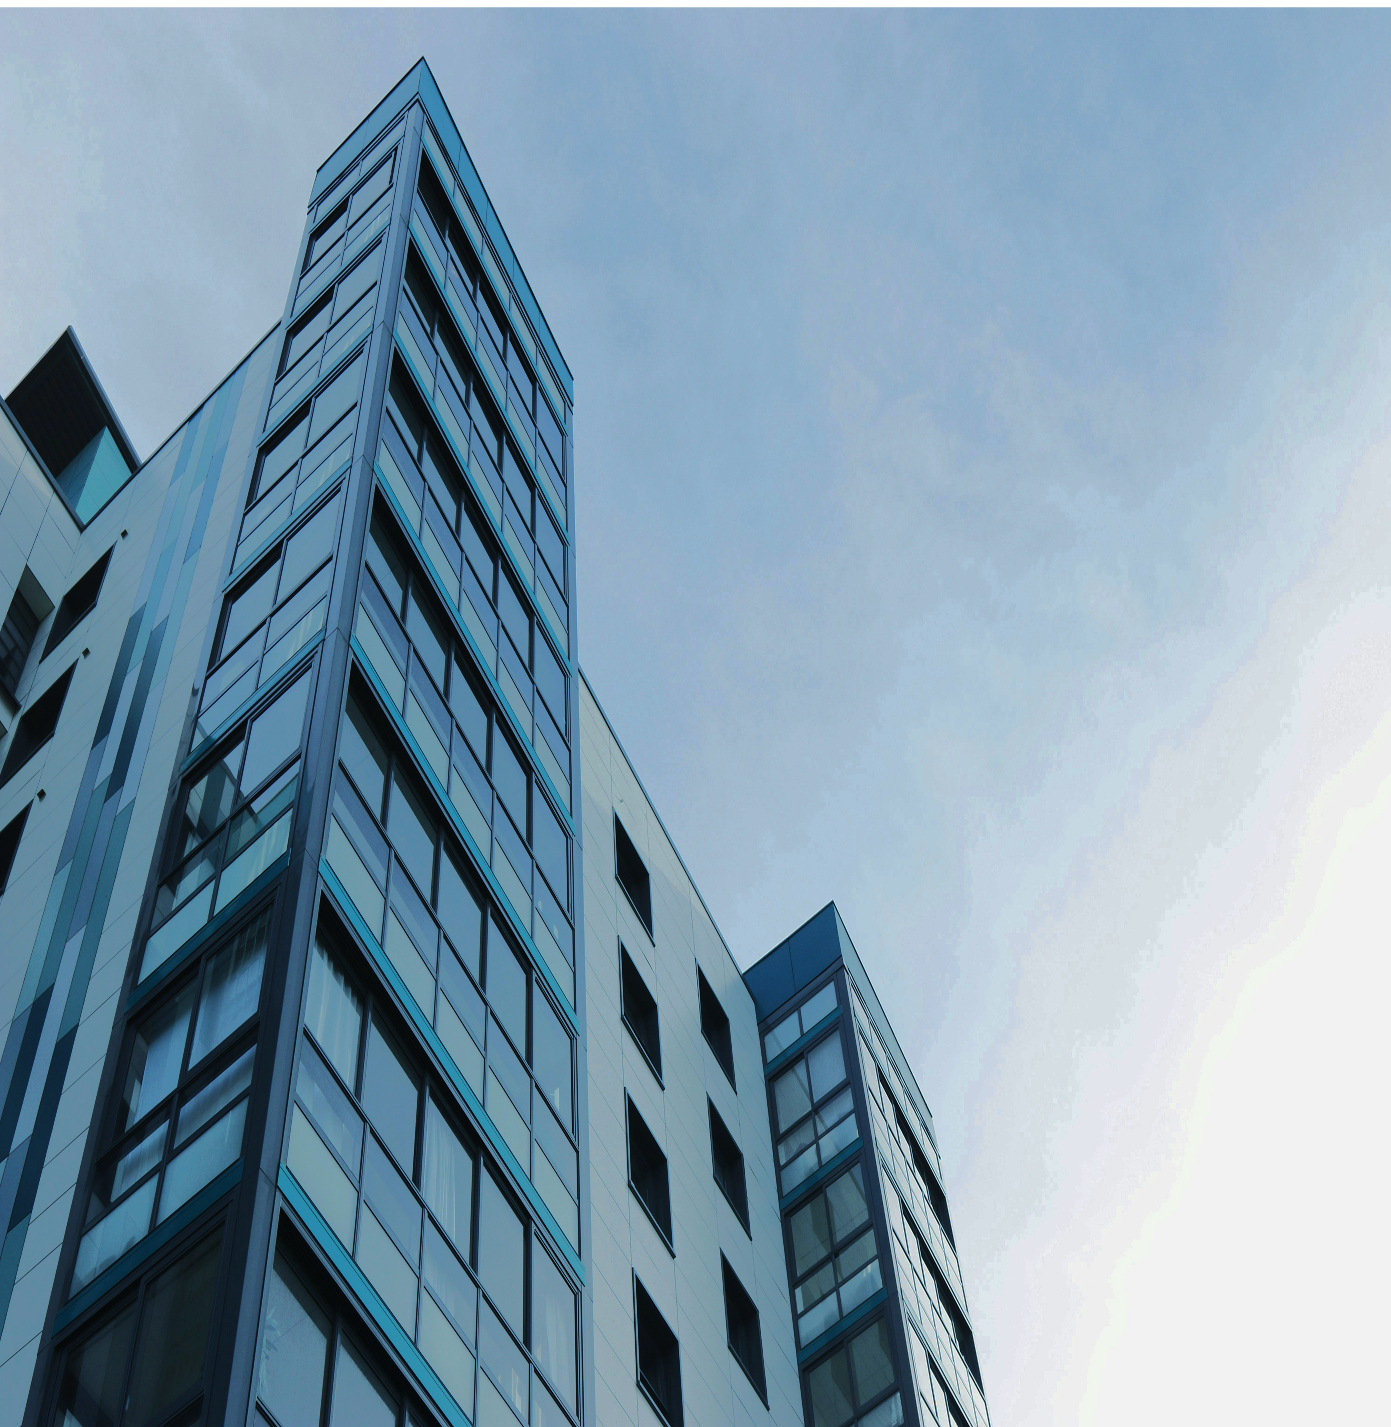
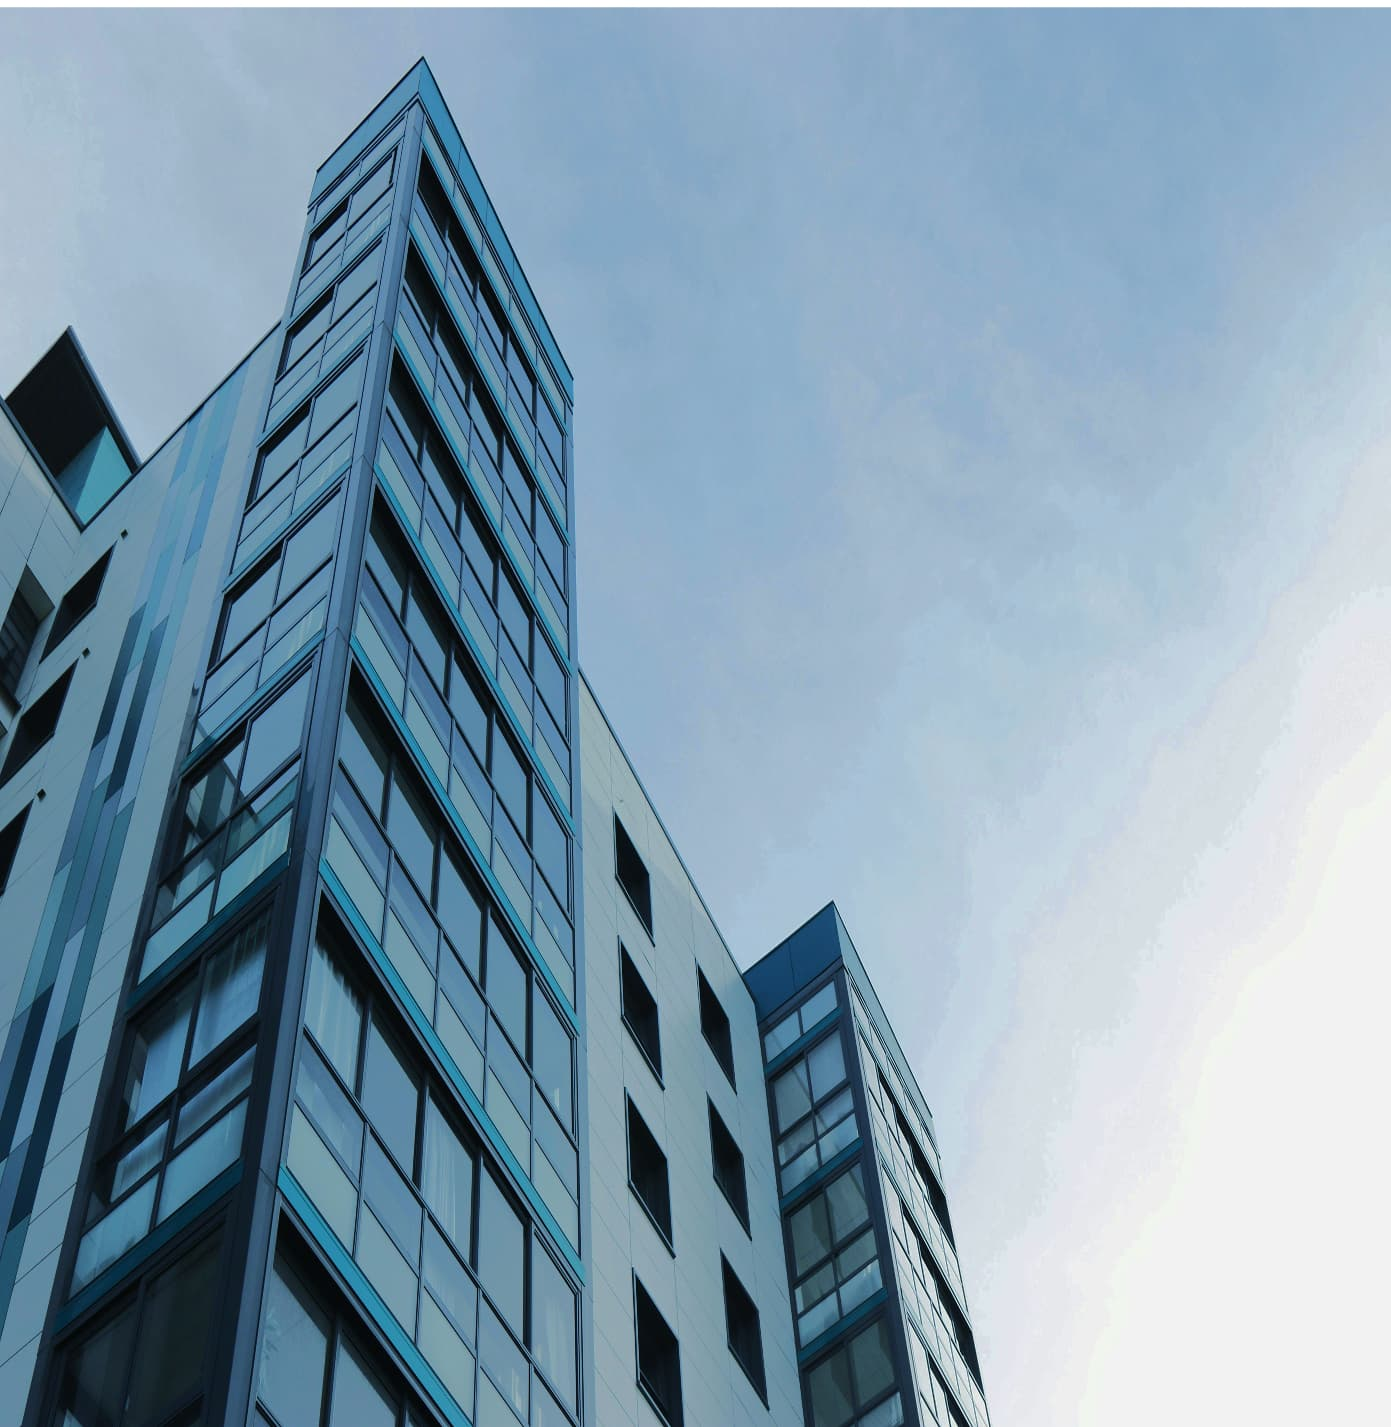
update at PPID

diff --git a/src/pages/profil/ProdukHukum.tsx b/src/pages/profil/ProdukHukum.tsx
@@ -187,7 +187,7 @@ const ProdukHukum = () => {
                         </div>
                         <div className="flex flex-col sm:flex-row gap-2">
                           {/* View Document */}
-                          <Button
+                          {/* <Button
                             variant="outline"
                             size="sm"
                             onClick={() => {
@@ -197,23 +197,24 @@ const ProdukHukum = () => {
                           >
                             <FileText className="w-4 h-4 mr-2" />
                             Lihat Detail
-                          </Button>
+                          </Button> */}
 
                           {/* Download Document */}
                           <Button
                             size="sm"
                             onClick={() => {
                               const fileUrl = `https://dashboard.btikpsultra.my.id/storage/${item.dokumens.dokumen}`;
-                              const link = document.createElement("a");
-                              link.href = fileUrl;
-                              link.download = item.judul || "dokumen.pdf";
-                              document.body.appendChild(link);
-                              link.click();
-                              document.body.removeChild(link);
+                              window.open(fileUrl, "_blank");
+                              // const link = document.createElement("a");
+                              // link.href = fileUrl;
+                              // link.download = item.judul || "dokumen.pdf";
+                              // document.body.appendChild(link);
+                              // link.click();
+                              // document.body.removeChild(link);
                             }}
                           >
-                            <Download className="w-4 h-4 mr-2" />
-                            Download
+                            <FileText className="w-4 h-4 mr-2" />
+                            Lihat Detail
                           </Button>
                         </div>
                       </div>

diff --git a/src/pages/inovasi/Inovasi.tsx b/src/pages/inovasi/Inovasi.tsx
@@ -123,28 +123,6 @@ const Inovasi = () => {
         </div>
       </section>
 
-      {/* Stats Section */}
-      {/* <section className="py-16 bg-muted/30">
-        <div className="max-w-7xl mx-auto px-4 sm:px-6 lg:px-8">
-          <div className="grid grid-cols-2 md:grid-cols-4 gap-8">
-            {stats?.map((stat, index) => (
-              <div key={index} className="text-center">
-                <div className="flex justify-center mb-4">
-                  <div className="p-3 bg-government-blue/10 rounded-full">
-                    <stat.icon className="w-8 h-8 text-government-blue" />
-                  </div>
-                </div>
-                <div className="text-3xl font-bold text-government-blue mb-2">
-                  {stat.value}
-                </div>
-                <div className="text-sm text-muted-foreground">
-                  {stat.label}
-                </div>
-              </div>
-            ))}
-          </div>
-        </div>
-      </section> */}
 
       {/* Main Content */}
       {isLoading ? (
@@ -249,7 +227,7 @@ const Inovasi = () => {
                       </Card>
                     ))
                   ) : (
-                    <p className="text-center capitalize font-bold">
+                    <p className="text-center capitalize text-gray-400">
                       kata kunci tidak ditemukan
                     </p>
                   )}

diff --git a/src/components/sections/HeroSection.tsx b/src/components/sections/HeroSection.tsx
@@ -126,12 +126,13 @@ const HeroSection = () => {
               <span>Laporan Kegiatan</span>
               <ArrowRight className="w-5 h-5 ml-2" />
             </Link>
-            <a
-              href="/profil/sejarah"
+            <Link
+              to="/profil"
               className="inline-flex items-center justify-center px-8 py-3 rounded-md text-base font-medium transition duration-200 border-2 border-white hover:text-white bg-white/10 text-white"
-            >
+           >
               Profil Dinas
-            </a>
+            </Link>
+            
           </div>
 
           {/* Stats */}

diff --git a/src/components/ui/StrukturOrganisasi.tsx b/src/components/ui/StrukturOrganisasi.tsx
@@ -1,5 +1,6 @@
 import { Card, CardContent } from "@/components/ui/card";
 import { User } from "lucide-react";
+import salim from "@/assets/salim.jpg"
 
 interface PersonData {
   id: string;
@@ -21,6 +22,7 @@ const OrganizationChart = () => {
     name: "Prof. Dr. H. Aris Badara, S.Pd., M.Hum",
     title: "KEPALA DINAS PENDIDIKAN DAN KEBUDAYAAN",
     nip: "NIP. ",
+    image: salim
   };
 
   // Sekretaris Dinas

diff --git a/src/pages/agenda/Agenda.tsx b/src/pages/agenda/Agenda.tsx
@@ -199,7 +199,7 @@ const Agenda = () => {
                     </Card>
                   ))
                 ) : (
-                  <p className="text-center capitalize font-bold">
+                  <p className="text-center capitalize text-gray-400 ">
                     kata kunci tidak ditemukan
                   </p>
                 )}
